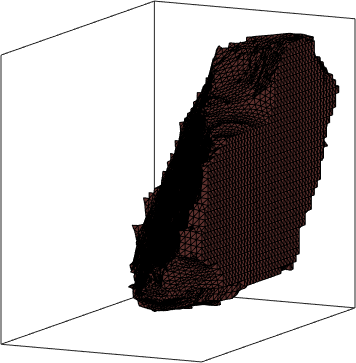
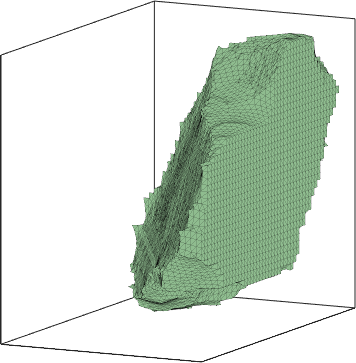
minor

diff --git a/pages/documentation_matlab/Grains3D.html b/pages/documentation_matlab/Grains3D.html
@@ -24,7 +24,7 @@ To make changes, update the MATLAB code and republish this document.
 <!--introduction-->
 <!--/introduction-->
 <p>Variables of type <a href="grain3d.grain3d.html">grain3d</a> store 3D grain data. At the moment 3d grains can be imported from &lt;NeperInterface.html Neper% &gt; or from Dream3d.</p>
-<h2 id="2">Importing 3D-Grains from Dream3d</h2>
+<h2 id="2">Import Grains from Dream3d</h2>
 <p>As with any data we can import</p>
 {% highlight matlab %}
 % specify the file name
@@ -46,7 +46,7 @@ setCamera(how2plot)
 % index of the grain with the largest volume
 [~,id] = max(grains.volume)
 
-plot(grains(id),grains(id).meanOrientation)
+plot(grains(id),'edgeAlpha',0.15)
 setCamera(how2plot)
 {% endhighlight %}
 
@@ -57,7 +57,7 @@ id =
 <center>
 {% include inline_image.html file="Grains3D_02.png" %}
 </center>
-<h2 id="4">%% Importing 3D-Grains from Neper</h2>
+<h2 id="4">Import Grains from Neper</h2>
 <p>
 <a href="https://neper.info">Neper</a> is a software package for the simulation of three dimensional microstructures. After installation it can be directly called by MTEX. The general workflow is explained <a href="NeperInterface.html">here</a>. Here we use it to quickly generate a copper microstructure with specific texture and specific distribution of boundary normals.</p>
 {% highlight matlab %}
@@ -101,11 +101,7 @@ N = vector3d(1,-1,1);
 
 grains_2d = grains.slice(N,P0)
 
-% plot the slice and adjust the plotting convention such that N points out
-% of screen
-plot(grains_2d,grains_2d.meanOrientation,'micronbar','off')
-how2plot = plottingConvention;
-how2plot.outOfScreen = N;
+plot(grains_2d,grains_2d.meanOrientation,'micronbar','off','linewidth',2)
 setCamera(how2plot)
 {% endhighlight %}
 
@@ -124,12 +120,34 @@ grains_2d = grain2d
 <center>
 {% include inline_image.html file="Grains3D_04.png" %}
 </center>
-<h2 id="6">Grains intersecting a slice</h2>
-<p>Lets plot the grains intersecting the plane in 3d</p>
+<p>It might be reasonable to adjust the plotting convention such that the normal direction <code class="language-plaintext highlighter-rouge">N</code> points out of screen.</p>
+{% highlight matlab %}
+how2plot = plottingConvention;
+how2plot.outOfScreen = N; how2plot.east = vector3d(1,1,0)
+
+setCamera(how2plot), axis off, xlabel('') , ylabel('')
+{% endhighlight %}
+
+{% highlight plaintext %}
+how2plot = plottingConvention
+ 
+  outOfScreen: (1,-1,1)
+  north      : (-1,1,2)
+  east       : (1,1,0)
+{% endhighlight %}
+<center>
+{% include inline_image.html file="Grains3D_05.png" %}
+</center>
+<h2 id="7">Grains intersecting a slice</h2>
+<p>Using the function <a href="grain3d.intersected"><code class="language-plaintext highlighter-rouge">intersected</code></a> we can identify all grains that intersect a given plane. Lets simply add 3d the shapes of all grains intersecting the plane.</p>
 {% highlight matlab %}
 isInter = grains.intersected(N,P0);
+
+[a,b,c] = grains(isInter).principalComponents;
+
 hold on
-plot(grains(isInter),grains(isInter).meanOrientation)
+plot(grains(isInter),grains(isInter).meanOrientation,'faceAlpha',0.5)
+%plotEllipsoid(grains(isInter).centroid,a,b,c,'faceAlpha',0.5)
 hold off
 
 how2plot.north = N;
@@ -141,13 +159,13 @@ setCamera(how2plot)
 how2plot = plottingConvention
  
   outOfScreen: (1,-1,-1)
-  north      : (5,-3,8) 
-  east       : (6,7,-1)
+  north      : (1,-1,2) 
+  east       : (1,1,0)
 {% endhighlight %}
 <center>
-{% include inline_image.html file="Grains3D_05.png" %}
+{% include inline_image.html file="Grains3D_06.png" %}
 </center>
-<h2 id="7">Plot the normal directions of one grain</h2>
+<h2 id="8">Plot the normal directions of one grain</h2>
 {% highlight matlab %}
 %grains = grains(1)
 %dir = grains.I_GF(1,:)' .* grains.boundary.N % flip according to I_GF
